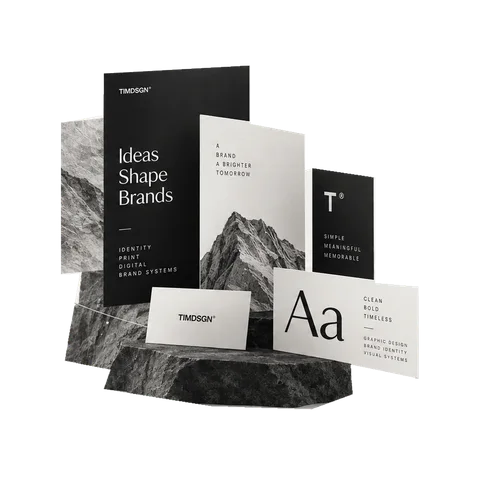
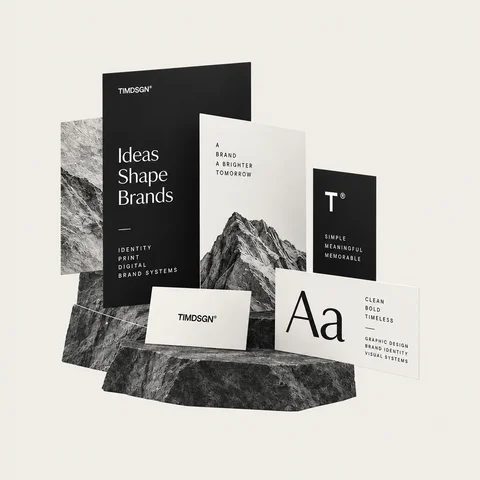
Replace editorial hero artwork with clean regenerated images

diff --git a/en/graphic-design.html b/en/graphic-design.html
@@ -28,7 +28,7 @@
 <link href="https://fonts.googleapis.com/css2?family=Inter+Tight:wght@300;400;500;600;700;800;900&amp;display=swap" rel="stylesheet"/>
 <link href="../style.css?v=20260910-iris" rel="stylesheet"/>
 <link href="../resources/Logo/LOGOwhite.png" rel="icon" type="image/png"/>
-<link href="../editorial.css?v=20260910-fit" rel="stylesheet"/></head>
+<link href="../editorial.css?v=20260910-clean" rel="stylesheet"/></head>
 <body class="editorial-site">
 <a class="skip-link" href="#sadrzaj">Skip to content</a>
 <nav aria-label="Main navigation" class="navbar editorial-nav"><div class="nav-container"><a aria-label="TIMDSGN — Home" class="nav-logo" href="../en/index.html">TIMDSGN</a><ul class="nav-links" id="navigation"><li><a class="nav-link" href="../en/web-design.html">Web Design</a></li><li><a aria-current="page" class="nav-link" href="../en/graphic-design.html">Graphic Design</a></li><li><a class="nav-link" href="../en/digital-products.html">Digital Products</a></li><li><a class="nav-link" href="../en/portfolio.html">Portfolio</a></li><li><a class="nav-link" href="../en/contact.html">Contact</a></li></ul><div class="nav-right"><div aria-label="Select language" class="language-selector"><a class="language-link" data-language="hr" href="../usluga-graficki-dizajn.html" lang="hr">HR</a><span aria-hidden="true">/</span><a aria-current="true" class="language-link" data-language="en" href="../en/graphic-design.html" lang="en">EN</a></div><button aria-controls="navigation" aria-expanded="false" aria-label="Open menu" class="mobile-menu-btn" type="button"><span class="line line1"></span><span class="line line2"></span><span class="line line3"></span></button></div></div></nav>
@@ -36,7 +36,7 @@
 <header class="editorial-hero hero-graphic">
 <div class="hero-copy"><p class="eyebrow">Graphic Design</p><h1><span>Graphic</span><br/><span>Design</span></h1><p class="hero-description">A distinctive visual identity that makes a lasting impression and expresses what your brand stands for.</p>
 <div class="hero-actions"><a class="editorial-button" href="../en/contact.html">Let’s Begin<span aria-hidden="true">⟶</span></a><a class="text-link" href="#process">See Our Process</a></div><div class="hero-stages"><div class="hero-stage"><span class="stage-number">01</span><span class="stage-title">Discovery</span><span class="micro">Understand<br/>your brand</span></div><div class="hero-stage"><span class="stage-number">02</span><span class="stage-title">Concept</span><span class="micro">Turn ideas<br/>into direction</span></div><div class="hero-stage"><span class="stage-number">03</span><span class="stage-title">Delivery</span><span class="micro">Refined design<br/>ready for the world</span></div></div></div>
-<div aria-hidden="true" class="hero-art"><div class="background-words"><span>GRAPHIC</span><span>DESIGN</span><span>IDENTITY</span><span>LOGO</span><span>SYSTEM</span></div><img alt="" class="hero-artwork" fetchpriority="high" height="920" sizes="(max-width: 900px) 94vw, 54vw" src="../resources/Editorial/graphic.webp" srcset="../resources/Editorial/graphic-small.webp 480w, ../resources/Editorial/graphic.webp 920w" width="920"/><span class="art-note micro">Ideas<br/>Brands<br/>Websites<br/>People</span><span class="art-signature micro">Creative<br/>Technology<br/>Human impact</span></div>
+<div aria-hidden="true" class="hero-art"><div class="background-words"><span>GRAPHIC</span><span>DESIGN</span><span>IDENTITY</span><span>LOGO</span><span>SYSTEM</span></div><img alt="" class="hero-artwork" fetchpriority="high" height="920" sizes="(max-width: 900px) 94vw, 54vw" src="../resources/Editorial/graphic.webp?v=20260910-clean" srcset="../resources/Editorial/graphic-small.webp?v=20260910-clean 480w, ../resources/Editorial/graphic.webp?v=20260910-clean 920w" width="920"/><span class="art-note micro">Ideas<br/>Brands<br/>Websites<br/>People</span><span class="art-signature micro">Creative<br/>Technology<br/>Human impact</span></div>
 </header>
 <div class="subpage-2col" id="process"><div class="process-heading"><p class="eyebrow">The process / 01—03</p><h2>Good ideas.<br/>Considered execution.</h2></div>
 <div class="process-steps">

diff --git a/en/digital-products.html b/en/digital-products.html
@@ -28,7 +28,7 @@
 <link href="https://fonts.googleapis.com/css2?family=Inter+Tight:wght@300;400;500;600;700;800;900&amp;display=swap" rel="stylesheet"/>
 <link href="../style.css?v=20260910-iris" rel="stylesheet"/>
 <link href="../resources/Logo/LOGOwhite.png" rel="icon" type="image/png"/>
-<link href="../editorial.css?v=20260910-fit" rel="stylesheet"/></head>
+<link href="../editorial.css?v=20260910-clean" rel="stylesheet"/></head>
 <body class="editorial-site">
 <a class="skip-link" href="#sadrzaj">Skip to content</a>
 <nav aria-label="Main navigation" class="navbar editorial-nav"><div class="nav-container"><a aria-label="TIMDSGN — Home" class="nav-logo" href="../en/index.html">TIMDSGN</a><ul class="nav-links" id="navigation"><li><a class="nav-link" href="../en/web-design.html">Web Design</a></li><li><a class="nav-link" href="../en/graphic-design.html">Graphic Design</a></li><li><a aria-current="page" class="nav-link" href="../en/digital-products.html">Digital Products</a></li><li><a class="nav-link" href="../en/portfolio.html">Portfolio</a></li><li><a class="nav-link" href="../en/contact.html">Contact</a></li></ul><div class="nav-right"><div aria-label="Select language" class="language-selector"><a class="language-link" data-language="hr" href="../usluga-digitalni-proizvodi.html" lang="hr">HR</a><span aria-hidden="true">/</span><a aria-current="true" class="language-link" data-language="en" href="../en/digital-products.html" lang="en">EN</a></div><button aria-controls="navigation" aria-expanded="false" aria-label="Open menu" class="mobile-menu-btn" type="button"><span class="line line1"></span><span class="line line2"></span><span class="line line3"></span></button></div></div></nav>
@@ -36,7 +36,7 @@
 <header class="editorial-hero hero-digital">
 <div class="hero-copy"><p class="eyebrow">Digital Products</p><h1><span>Digital</span><br/><span>Products</span></h1><p class="hero-description">Complex systems transformed into simple, intuitive experiences. We create digital tools with lasting value.</p>
 <div class="hero-actions"><a class="editorial-button" href="../en/contact.html">Let’s Talk<span aria-hidden="true">⟶</span></a><a class="text-link" href="#process">Explore Our Approach</a></div><div class="hero-stages"><div class="hero-stage"><span class="stage-number">01</span><span class="stage-title">Strategy</span><span class="micro">Discover<br/>opportunities</span></div><div class="hero-stage"><span class="stage-number">02</span><span class="stage-title">Prototype</span><span class="micro">Validate<br/>solutions</span></div><div class="hero-stage"><span class="stage-number">03</span><span class="stage-title">Launch</span><span class="micro">Build for<br/>real impact</span></div></div></div>
-<div aria-hidden="true" class="hero-art"><div class="background-words"><span>DIGITAL</span><span>PRODUCTS</span><span>STRATEGY</span><span>SYSTEMS</span></div><img alt="" class="hero-artwork" fetchpriority="high" height="920" sizes="(max-width: 900px) 94vw, 54vw" src="../resources/Editorial/digital.webp" srcset="../resources/Editorial/digital-small.webp 480w, ../resources/Editorial/digital.webp 920w" width="920"/><span class="art-note micro">Ideas<br/>Brands<br/>Websites<br/>People</span><span class="art-signature micro">Creative<br/>Technology<br/>Human impact</span></div>
+<div aria-hidden="true" class="hero-art"><div class="background-words"><span>DIGITAL</span><span>PRODUCTS</span><span>STRATEGY</span><span>SYSTEMS</span></div><img alt="" class="hero-artwork" fetchpriority="high" height="920" sizes="(max-width: 900px) 94vw, 54vw" src="../resources/Editorial/digital.webp?v=20260910-clean" srcset="../resources/Editorial/digital-small.webp?v=20260910-clean 480w, ../resources/Editorial/digital.webp?v=20260910-clean 920w" width="920"/><span class="art-note micro">Ideas<br/>Brands<br/>Websites<br/>People</span><span class="art-signature micro">Creative<br/>Technology<br/>Human impact</span></div>
 </header>
 <div class="subpage-2col" id="process"><div class="process-heading"><p class="eyebrow">The process / 01—03</p><h2>Good ideas.<br/>Considered execution.</h2></div>
 <div class="process-steps">

diff --git a/usluga-graficki-dizajn.html b/usluga-graficki-dizajn.html
@@ -24,7 +24,7 @@
 <link href="https://fonts.googleapis.com/css2?family=Inter+Tight:wght@300;400;500;600;700;800;900&amp;display=swap" rel="stylesheet"/>
 <link href="style.css?v=20260910-iris" rel="stylesheet"/>
 <link href="resources/Logo/LOGOwhite.png" rel="icon" type="image/png"/>
-<link href="editorial.css?v=20260910-fit" rel="stylesheet"/></head>
+<link href="editorial.css?v=20260910-clean" rel="stylesheet"/></head>
 <body class="editorial-site">
 <a class="skip-link" href="#sadrzaj">Preskoči na sadržaj</a>
 <nav aria-label="Glavna navigacija" class="navbar editorial-nav"><div class="nav-container"><a aria-label="TIMDSGN — Početna" class="nav-logo" href="index.html">TIMDSGN</a><ul class="nav-links" id="navigation"><li><a class="nav-link" href="usluga-web-dizajn.html">Web dizajn</a></li><li><a aria-current="page" class="nav-link" href="usluga-graficki-dizajn.html">Grafički dizajn</a></li><li><a class="nav-link" href="usluga-digitalni-proizvodi.html">Digitalni proizvodi</a></li><li><a class="nav-link" href="galerija.html">Portfolio</a></li><li><a class="nav-link" href="kontakt.html">Kontakt</a></li></ul><div class="nav-right"><div aria-label="Odabir jezika" class="language-selector"><a aria-current="true" class="language-link" data-language="hr" href="usluga-graficki-dizajn.html" lang="hr">HR</a><span aria-hidden="true">/</span><a class="language-link" data-language="en" href="en/graphic-design.html" lang="en">EN</a></div><button aria-controls="navigation" aria-expanded="false" aria-label="Otvori izbornik" class="mobile-menu-btn" type="button"><span class="line line1"></span><span class="line line2"></span><span class="line line3"></span></button></div></div></nav>
@@ -32,7 +32,7 @@
 <header class="editorial-hero hero-graphic">
 <div class="hero-copy"><p class="eyebrow">Grafički dizajn</p><h1><span>Grafički</span><br/><span>dizajn</span></h1><p class="hero-description">Prepoznatljiv vizualni identitet koji ostavlja trajan dojam i izražava ono iza čega vaš brend stoji.</p>
 <div class="hero-actions"><a class="editorial-button" href="kontakt.html">Započnimo<span aria-hidden="true">⟶</span></a><a class="text-link" href="#process">Pogledajte naš proces</a></div><div class="hero-stages"><div class="hero-stage"><span class="stage-number">01</span><span class="stage-title">Istraživanje</span><span class="micro">Upoznajemo<br/>vaš brend</span></div><div class="hero-stage"><span class="stage-number">02</span><span class="stage-title">Koncept</span><span class="micro">Od ideje<br/>do smjera</span></div><div class="hero-stage"><span class="stage-number">03</span><span class="stage-title">Isporuka</span><span class="micro">Dorađen dizajn<br/>spreman za svijet</span></div></div></div>
-<div aria-hidden="true" class="hero-art"><div class="background-words"><span>GRAFIČKI</span><span>DIZAJN</span><span>IDENTITET</span><span>LOGO</span><span>SUSTAV</span></div><img alt="" class="hero-artwork" fetchpriority="high" height="920" sizes="(max-width: 900px) 94vw, 54vw" src="resources/Editorial/graphic.webp" srcset="resources/Editorial/graphic-small.webp 480w, resources/Editorial/graphic.webp 920w" width="920"/><span class="art-note micro">Ideje<br/>Brendovi<br/>Web<br/>Ljudi</span><span class="art-signature micro">Kreativnost<br/>Tehnologija<br/>Za ljude</span></div>
+<div aria-hidden="true" class="hero-art"><div class="background-words"><span>GRAFIČKI</span><span>DIZAJN</span><span>IDENTITET</span><span>LOGO</span><span>SUSTAV</span></div><img alt="" class="hero-artwork" fetchpriority="high" height="920" sizes="(max-width: 900px) 94vw, 54vw" src="resources/Editorial/graphic.webp?v=20260910-clean" srcset="resources/Editorial/graphic-small.webp?v=20260910-clean 480w, resources/Editorial/graphic.webp?v=20260910-clean 920w" width="920"/><span class="art-note micro">Ideje<br/>Brendovi<br/>Web<br/>Ljudi</span><span class="art-signature micro">Kreativnost<br/>Tehnologija<br/>Za ljude</span></div>
 </header>
 <div class="subpage-2col" id="process"><div class="process-heading"><p class="eyebrow">Naš proces / 01—03</p><h2>Dobre ideje.<br/>Promišljena izvedba.</h2></div>
 <div class="process-steps">

diff --git a/usluga-digitalni-proizvodi.html b/usluga-digitalni-proizvodi.html
@@ -24,7 +24,7 @@
 <link href="https://fonts.googleapis.com/css2?family=Inter+Tight:wght@300;400;500;600;700;800;900&amp;display=swap" rel="stylesheet"/>
 <link href="style.css?v=20260910-iris" rel="stylesheet"/>
 <link href="resources/Logo/LOGOwhite.png" rel="icon" type="image/png"/>
-<link href="editorial.css?v=20260910-fit" rel="stylesheet"/></head>
+<link href="editorial.css?v=20260910-clean" rel="stylesheet"/></head>
 <body class="editorial-site">
 <a class="skip-link" href="#sadrzaj">Preskoči na sadržaj</a>
 <nav aria-label="Glavna navigacija" class="navbar editorial-nav"><div class="nav-container"><a aria-label="TIMDSGN — Početna" class="nav-logo" href="index.html">TIMDSGN</a><ul class="nav-links" id="navigation"><li><a class="nav-link" href="usluga-web-dizajn.html">Web dizajn</a></li><li><a class="nav-link" href="usluga-graficki-dizajn.html">Grafički dizajn</a></li><li><a aria-current="page" class="nav-link" href="usluga-digitalni-proizvodi.html">Digitalni proizvodi</a></li><li><a class="nav-link" href="galerija.html">Portfolio</a></li><li><a class="nav-link" href="kontakt.html">Kontakt</a></li></ul><div class="nav-right"><div aria-label="Odabir jezika" class="language-selector"><a aria-current="true" class="language-link" data-language="hr" href="usluga-digitalni-proizvodi.html" lang="hr">HR</a><span aria-hidden="true">/</span><a class="language-link" data-language="en" href="en/digital-products.html" lang="en">EN</a></div><button aria-controls="navigation" aria-expanded="false" aria-label="Otvori izbornik" class="mobile-menu-btn" type="button"><span class="line line1"></span><span class="line line2"></span><span class="line line3"></span></button></div></div></nav>
@@ -32,7 +32,7 @@
 <header class="editorial-hero hero-digital">
 <div class="hero-copy"><p class="eyebrow">Digitalni proizvodi</p><h1><span>Digitalni</span><br/><span>proizvodi</span></h1><p class="hero-description">Složene sustave pretvaramo u jednostavna, intuitivna iskustva. Stvaramo digitalne alate s trajnom vrijednošću.</p>
 <div class="hero-actions"><a class="editorial-button" href="kontakt.html">Razgovarajmo<span aria-hidden="true">⟶</span></a><a class="text-link" href="#process">Pogledajte naš pristup</a></div><div class="hero-stages"><div class="hero-stage"><span class="stage-number">01</span><span class="stage-title">Strategija</span><span class="micro">Otkrivamo<br/>prilike</span></div><div class="hero-stage"><span class="stage-number">02</span><span class="stage-title">Prototip</span><span class="micro">Provjeravamo<br/>rješenja</span></div><div class="hero-stage"><span class="stage-number">03</span><span class="stage-title">Lansiranje</span><span class="micro">Stvaramo<br/>stvarnu vrijednost</span></div></div></div>
-<div aria-hidden="true" class="hero-art"><div class="background-words"><span>DIGITALNI</span><span>PROIZVODI</span><span>STRATEGIJA</span><span>SUSTAVI</span></div><img alt="" class="hero-artwork" fetchpriority="high" height="920" sizes="(max-width: 900px) 94vw, 54vw" src="resources/Editorial/digital.webp" srcset="resources/Editorial/digital-small.webp 480w, resources/Editorial/digital.webp 920w" width="920"/><span class="art-note micro">Ideje<br/>Brendovi<br/>Web<br/>Ljudi</span><span class="art-signature micro">Kreativnost<br/>Tehnologija<br/>Za ljude</span></div>
+<div aria-hidden="true" class="hero-art"><div class="background-words"><span>DIGITALNI</span><span>PROIZVODI</span><span>STRATEGIJA</span><span>SUSTAVI</span></div><img alt="" class="hero-artwork" fetchpriority="high" height="920" sizes="(max-width: 900px) 94vw, 54vw" src="resources/Editorial/digital.webp?v=20260910-clean" srcset="resources/Editorial/digital-small.webp?v=20260910-clean 480w, resources/Editorial/digital.webp?v=20260910-clean 920w" width="920"/><span class="art-note micro">Ideje<br/>Brendovi<br/>Web<br/>Ljudi</span><span class="art-signature micro">Kreativnost<br/>Tehnologija<br/>Za ljude</span></div>
 </header>
 <div class="subpage-2col" id="process"><div class="process-heading"><p class="eyebrow">Naš proces / 01—03</p><h2>Dobre ideje.<br/>Promišljena izvedba.</h2></div>
 <div class="process-steps">

diff --git a/en/index.html b/en/index.html
@@ -52,7 +52,7 @@
 <link href="https://fonts.googleapis.com/css2?family=Inter+Tight:wght@300;400;500;600;700;800;900&amp;display=swap" rel="stylesheet"/>
 <link href="../style.css?v=20260910-iris" rel="stylesheet"/>
 <link href="../resources/Logo/LOGOwhite.png" rel="icon" type="image/png"/>
-<link href="../editorial.css?v=20260910-fit" rel="stylesheet"/></head>
+<link href="../editorial.css?v=20260910-clean" rel="stylesheet"/></head>
 <body class="editorial-site">
 <a class="skip-link" href="#sadrzaj">Skip to content</a>
 <!-- NAVBAR -->
@@ -62,7 +62,7 @@
 <header class="editorial-hero hero-home">
 <div class="hero-copy"><p class="eyebrow">Zagreb, Croatia</p><h1><span>Creativity &amp; Code</span><br/><span>for a Brighter</span><br/><span>Digital Tomorrow.</span></h1><p class="hero-description">We build thoughtful digital experiences through strategy, design and technology. From identity to web, we help ambitious brands make a meaningful impact.</p>
 <div class="hero-actions"><a class="editorial-button" href="../en/contact.html">Start a Project<span aria-hidden="true">⟶</span></a><a class="text-link" href="../en/portfolio.html">Explore Our Work</a></div><div class="hero-stages"><a class="hero-stage" href="../en/web-design.html"><span class="stage-number">01</span><span class="stage-title">Web Design</span><span class="micro">High-performance<br/>websites</span></a><a class="hero-stage" href="../en/graphic-design.html"><span class="stage-number">02</span><span class="stage-title">Graphic Design</span><span class="micro">Bold visual<br/>identities</span></a><a class="hero-stage" href="../en/digital-products.html"><span class="stage-number">03</span><span class="stage-title">Digital Products</span><span class="micro">Ideas, designed<br/>for real life</span></a></div></div>
-<div aria-hidden="true" class="hero-art"><div class="background-words"><span>IDENTITY</span><span>PLAN</span><span>STRATEGY</span><span>DESIGN</span><span>BRAND</span><span>WEB</span></div><img alt="" class="hero-artwork" fetchpriority="high" height="920" sizes="(max-width: 900px) 94vw, 54vw" src="../resources/Editorial/home.webp" srcset="../resources/Editorial/home-small.webp 480w, ../resources/Editorial/home.webp 920w" width="920"/><span class="art-note micro">Ideas<br/>Brands<br/>Websites<br/>People</span><span class="art-signature micro">Creative<br/>Technology<br/>Human impact</span></div>
+<div aria-hidden="true" class="hero-art"><div class="background-words"><span>IDENTITY</span><span>PLAN</span><span>STRATEGY</span><span>DESIGN</span><span>BRAND</span><span>WEB</span></div><img alt="" class="hero-artwork" fetchpriority="high" height="920" sizes="(max-width: 900px) 94vw, 54vw" src="../resources/Editorial/home.webp?v=20260910-clean" srcset="../resources/Editorial/home-small.webp?v=20260910-clean 480w, ../resources/Editorial/home.webp?v=20260910-clean 920w" width="920"/><span class="art-note micro">Ideas<br/>Brands<br/>Websites<br/>People</span><span class="art-signature micro">Creative<br/>Technology<br/>Human impact</span></div>
 </header>
 <!-- SERVICES — ACCORDION STRIPS -->
 <section class="section-full">

diff --git a/index.html b/index.html
@@ -52,7 +52,7 @@
 <link href="https://fonts.googleapis.com/css2?family=Inter+Tight:wght@300;400;500;600;700;800;900&amp;display=swap" rel="stylesheet"/>
 <link href="style.css?v=20260910-iris" rel="stylesheet"/>
 <link href="resources/Logo/LOGOwhite.png" rel="icon" type="image/png"/>
-<link href="editorial.css?v=20260910-fit" rel="stylesheet"/></head>
+<link href="editorial.css?v=20260910-clean" rel="stylesheet"/></head>
 <body class="editorial-site">
 <a class="skip-link" href="#sadrzaj">Preskoči na sadržaj</a>
 <!-- NAVBAR -->
@@ -62,7 +62,7 @@
 <header class="editorial-hero hero-home">
 <div class="hero-copy"><p class="eyebrow">Zagreb, Hrvatska</p><h1><span>Kreativnost i kod</span><br/><span>za svjetliju</span><br/><span>digitalnu budućnost.</span></h1><p class="hero-description">Strategijom, dizajnom i tehnologijom stvaramo promišljena digitalna iskustva. Od identiteta do weba, pomažemo ambicioznim brendovima ostaviti trag.</p>
 <div class="hero-actions"><a class="editorial-button" href="kontakt.html">Pokrenimo projekt<span aria-hidden="true">⟶</span></a><a class="text-link" href="galerija.html">Pogledajte naše radove</a></div><div class="hero-stages"><a class="hero-stage" href="usluga-web-dizajn.html"><span class="stage-number">01</span><span class="stage-title">Web dizajn</span><span class="micro">Web stranice<br/>visokih performansi</span></a><a class="hero-stage" href="usluga-graficki-dizajn.html"><span class="stage-number">02</span><span class="stage-title">Grafički dizajn</span><span class="micro">Upečatljivi<br/>vizualni identiteti</span></a><a class="hero-stage" href="usluga-digitalni-proizvodi.html"><span class="stage-number">03</span><span class="stage-title">Digitalni proizvodi</span><span class="micro">Ideje za<br/>stvarni život</span></a></div></div>
-<div aria-hidden="true" class="hero-art"><div class="background-words"><span>IDENTITET</span><span>PLAN</span><span>STRATEGIJA</span><span>DIZAJN</span><span>BREND</span><span>WEB</span></div><img alt="" class="hero-artwork" fetchpriority="high" height="920" sizes="(max-width: 900px) 94vw, 54vw" src="resources/Editorial/home.webp" srcset="resources/Editorial/home-small.webp 480w, resources/Editorial/home.webp 920w" width="920"/><span class="art-note micro">Ideje<br/>Brendovi<br/>Web<br/>Ljudi</span><span class="art-signature micro">Kreativnost<br/>Tehnologija<br/>Za ljude</span></div>
+<div aria-hidden="true" class="hero-art"><div class="background-words"><span>IDENTITET</span><span>PLAN</span><span>STRATEGIJA</span><span>DIZAJN</span><span>BREND</span><span>WEB</span></div><img alt="" class="hero-artwork" fetchpriority="high" height="920" sizes="(max-width: 900px) 94vw, 54vw" src="resources/Editorial/home.webp?v=20260910-clean" srcset="resources/Editorial/home-small.webp?v=20260910-clean 480w, resources/Editorial/home.webp?v=20260910-clean 920w" width="920"/><span class="art-note micro">Ideje<br/>Brendovi<br/>Web<br/>Ljudi</span><span class="art-signature micro">Kreativnost<br/>Tehnologija<br/>Za ljude</span></div>
 </header>
 <!-- SERVICES — ACCORDION STRIPS -->
 <section class="section-full">

diff --git a/en/web-design.html b/en/web-design.html
@@ -28,7 +28,7 @@
 <link href="https://fonts.googleapis.com/css2?family=Inter+Tight:wght@300;400;500;600;700;800;900&amp;display=swap" rel="stylesheet"/>
 <link href="../style.css?v=20260910-iris" rel="stylesheet"/>
 <link href="../resources/Logo/LOGOwhite.png" rel="icon" type="image/png"/>
-<link href="../editorial.css?v=20260910-fit" rel="stylesheet"/></head>
+<link href="../editorial.css?v=20260910-clean" rel="stylesheet"/></head>
 <body class="editorial-site">
 <a class="skip-link" href="#sadrzaj">Skip to content</a>
 <!-- NAVBAR -->
@@ -37,7 +37,7 @@
 <header class="editorial-hero hero-web">
 <div class="hero-copy"><p class="eyebrow">Web Design</p><h1><span>Web Design</span></h1><p class="hero-description">A premium digital presence where forward-looking aesthetics meet effortless functionality.</p>
 <div class="hero-actions"><a class="editorial-button" href="../en/contact.html">Let’s Begin<span aria-hidden="true">⟶</span></a><a class="text-link" href="#process">See Our Process</a></div><div class="hero-stages"><div class="hero-stage"><span class="stage-number">01</span><span class="stage-title">UX Analysis</span><span class="micro">Insights for<br/>real users</span></div><div class="hero-stage"><span class="stage-number">02</span><span class="stage-title">UI Design</span><span class="micro">Bold visual<br/>experiences</span></div><div class="hero-stage"><span class="stage-number">03</span><span class="stage-title">Development</span><span class="micro">Clean code<br/>lasting impact</span></div></div></div>
-<div aria-hidden="true" class="hero-art"><div class="background-words"><span>WEB</span><span>DESIGN</span><span>PERFORMANCE</span><span>UX</span><span>UI</span></div><img alt="" class="hero-artwork" fetchpriority="high" height="920" sizes="(max-width: 900px) 94vw, 54vw" src="../resources/Editorial/web.webp" srcset="../resources/Editorial/web-small.webp 480w, ../resources/Editorial/web.webp 920w" width="920"/><span class="art-note micro">Ideas<br/>Brands<br/>Websites<br/>People</span><span class="art-signature micro">Creative<br/>Technology<br/>Human impact</span></div>
+<div aria-hidden="true" class="hero-art"><div class="background-words"><span>WEB</span><span>DESIGN</span><span>PERFORMANCE</span><span>UX</span><span>UI</span></div><img alt="" class="hero-artwork" fetchpriority="high" height="920" sizes="(max-width: 900px) 94vw, 54vw" src="../resources/Editorial/web.webp?v=20260910-clean" srcset="../resources/Editorial/web-small.webp?v=20260910-clean 480w, ../resources/Editorial/web.webp?v=20260910-clean 920w" width="920"/><span class="art-note micro">Ideas<br/>Brands<br/>Websites<br/>People</span><span class="art-signature micro">Creative<br/>Technology<br/>Human impact</span></div>
 </header>
 <div class="subpage-2col" id="process"><div class="process-heading"><p class="eyebrow">The process / 01—03</p><h2>Good ideas.<br/>Considered execution.</h2></div>
 <div class="process-steps">

diff --git a/usluga-web-dizajn.html b/usluga-web-dizajn.html
@@ -24,7 +24,7 @@
 <link href="https://fonts.googleapis.com/css2?family=Inter+Tight:wght@300;400;500;600;700;800;900&amp;display=swap" rel="stylesheet"/>
 <link href="style.css?v=20260910-iris" rel="stylesheet"/>
 <link href="resources/Logo/LOGOwhite.png" rel="icon" type="image/png"/>
-<link href="editorial.css?v=20260910-fit" rel="stylesheet"/></head>
+<link href="editorial.css?v=20260910-clean" rel="stylesheet"/></head>
 <body class="editorial-site">
 <a class="skip-link" href="#sadrzaj">Preskoči na sadržaj</a>
 <!-- NAVBAR -->
@@ -33,7 +33,7 @@
 <header class="editorial-hero hero-web">
 <div class="hero-copy"><p class="eyebrow">Web dizajn</p><h1><span>Web dizajn</span></h1><p class="hero-description">Vrhunska digitalna prisutnost koja spaja suvremenu estetiku i besprijekornu funkcionalnost.</p>
 <div class="hero-actions"><a class="editorial-button" href="kontakt.html">Započnimo<span aria-hidden="true">⟶</span></a><a class="text-link" href="#process">Pogledajte naš proces</a></div><div class="hero-stages"><div class="hero-stage"><span class="stage-number">01</span><span class="stage-title">UX analiza</span><span class="micro">Razumijevanje<br/>stvarnih korisnika</span></div><div class="hero-stage"><span class="stage-number">02</span><span class="stage-title">UI dizajn</span><span class="micro">Upečatljiva<br/>vizualna iskustva</span></div><div class="hero-stage"><span class="stage-number">03</span><span class="stage-title">Razvoj</span><span class="micro">Čist kod<br/>trajna vrijednost</span></div></div></div>
-<div aria-hidden="true" class="hero-art"><div class="background-words"><span>WEB</span><span>DIZAJN</span><span>PERFORMANSE</span><span>UX</span><span>UI</span></div><img alt="" class="hero-artwork" fetchpriority="high" height="920" sizes="(max-width: 900px) 94vw, 54vw" src="resources/Editorial/web.webp" srcset="resources/Editorial/web-small.webp 480w, resources/Editorial/web.webp 920w" width="920"/><span class="art-note micro">Ideje<br/>Brendovi<br/>Web<br/>Ljudi</span><span class="art-signature micro">Kreativnost<br/>Tehnologija<br/>Za ljude</span></div>
+<div aria-hidden="true" class="hero-art"><div class="background-words"><span>WEB</span><span>DIZAJN</span><span>PERFORMANSE</span><span>UX</span><span>UI</span></div><img alt="" class="hero-artwork" fetchpriority="high" height="920" sizes="(max-width: 900px) 94vw, 54vw" src="resources/Editorial/web.webp?v=20260910-clean" srcset="resources/Editorial/web-small.webp?v=20260910-clean 480w, resources/Editorial/web.webp?v=20260910-clean 920w" width="920"/><span class="art-note micro">Ideje<br/>Brendovi<br/>Web<br/>Ljudi</span><span class="art-signature micro">Kreativnost<br/>Tehnologija<br/>Za ljude</span></div>
 </header>
 <div class="subpage-2col" id="process"><div class="process-heading"><p class="eyebrow">Naš proces / 01—03</p><h2>Dobre ideje.<br/>Promišljena izvedba.</h2></div>
 <div class="process-steps">

diff --git a/en/portfolio.html b/en/portfolio.html
@@ -28,7 +28,7 @@
 <link href="https://fonts.googleapis.com/css2?family=Inter+Tight:wght@300;400;500;600;700;800;900&amp;display=swap" rel="stylesheet"/>
 <link href="../style.css?v=20260910-iris" rel="stylesheet"/>
 <link href="../resources/Logo/LOGOwhite.png" rel="icon" type="image/png"/>
-<link href="../editorial.css?v=20260910-fit" rel="stylesheet"/></head>
+<link href="../editorial.css?v=20260910-clean" rel="stylesheet"/></head>
 <body class="portfolio-page editorial-site">
 <a class="skip-link" href="#sadrzaj">Skip to content</a>
 <nav aria-label="Main navigation" class="navbar editorial-nav"><div class="nav-container"><a aria-label="TIMDSGN — Home" class="nav-logo" href="../en/index.html">TIMDSGN</a><ul class="nav-links" id="navigation"><li><a class="nav-link" href="../en/web-design.html">Web Design</a></li><li><a class="nav-link" href="../en/graphic-design.html">Graphic Design</a></li><li><a class="nav-link" href="../en/digital-products.html">Digital Products</a></li><li><a aria-current="page" class="nav-link" href="../en/portfolio.html">Portfolio</a></li><li><a class="nav-link" href="../en/contact.html">Contact</a></li></ul><div class="nav-right"><div aria-label="Select language" class="language-selector"><a class="language-link" data-language="hr" href="../galerija.html" lang="hr">HR</a><span aria-hidden="true">/</span><a aria-current="true" class="language-link" data-language="en" href="../en/portfolio.html" lang="en">EN</a></div><button aria-controls="navigation" aria-expanded="false" aria-label="Open menu" class="mobile-menu-btn" type="button"><span class="line line1"></span><span class="line line2"></span><span class="line line3"></span></button></div></div></nav>

diff --git a/galerija.html b/galerija.html
@@ -24,7 +24,7 @@
 <link href="https://fonts.googleapis.com/css2?family=Inter+Tight:wght@300;400;500;600;700;800;900&amp;display=swap" rel="stylesheet"/>
 <link href="style.css?v=20260910-iris" rel="stylesheet"/>
 <link href="resources/Logo/LOGOwhite.png" rel="icon" type="image/png"/>
-<link href="editorial.css?v=20260910-fit" rel="stylesheet"/></head>
+<link href="editorial.css?v=20260910-clean" rel="stylesheet"/></head>
 <body class="portfolio-page editorial-site">
 <a class="skip-link" href="#sadrzaj">Preskoči na sadržaj</a>
 <nav aria-label="Glavna navigacija" class="navbar editorial-nav"><div class="nav-container"><a aria-label="TIMDSGN — Početna" class="nav-logo" href="index.html">TIMDSGN</a><ul class="nav-links" id="navigation"><li><a class="nav-link" href="usluga-web-dizajn.html">Web dizajn</a></li><li><a class="nav-link" href="usluga-graficki-dizajn.html">Grafički dizajn</a></li><li><a class="nav-link" href="usluga-digitalni-proizvodi.html">Digitalni proizvodi</a></li><li><a aria-current="page" class="nav-link" href="galerija.html">Portfolio</a></li><li><a class="nav-link" href="kontakt.html">Kontakt</a></li></ul><div class="nav-right"><div aria-label="Odabir jezika" class="language-selector"><a aria-current="true" class="language-link" data-language="hr" href="galerija.html" lang="hr">HR</a><span aria-hidden="true">/</span><a class="language-link" data-language="en" href="en/portfolio.html" lang="en">EN</a></div><button aria-controls="navigation" aria-expanded="false" aria-label="Otvori izbornik" class="mobile-menu-btn" type="button"><span class="line line1"></span><span class="line line2"></span><span class="line line3"></span></button></div></div></nav>

diff --git a/en/contact.html b/en/contact.html
@@ -28,7 +28,7 @@
 <link href="https://fonts.googleapis.com/css2?family=Inter+Tight:wght@300;400;500;600;700;800;900&amp;display=swap" rel="stylesheet"/>
 <link href="../style.css?v=20260910-iris" rel="stylesheet"/>
 <link href="../resources/Logo/LOGOwhite.png" rel="icon" type="image/png"/>
-<link href="../editorial.css?v=20260910-fit" rel="stylesheet"/></head>
+<link href="../editorial.css?v=20260910-clean" rel="stylesheet"/></head>
 <body class="editorial-site">
 <a class="skip-link" href="#sadrzaj">Skip to content</a>
 <nav aria-label="Main navigation" class="navbar editorial-nav"><div class="nav-container"><a aria-label="TIMDSGN — Home" class="nav-logo" href="../en/index.html">TIMDSGN</a><ul class="nav-links" id="navigation"><li><a class="nav-link" href="../en/web-design.html">Web Design</a></li><li><a class="nav-link" href="../en/graphic-design.html">Graphic Design</a></li><li><a class="nav-link" href="../en/digital-products.html">Digital Products</a></li><li><a class="nav-link" href="../en/portfolio.html">Portfolio</a></li><li><a aria-current="page" class="nav-link" href="../en/contact.html">Contact</a></li></ul><div class="nav-right"><div aria-label="Select language" class="language-selector"><a class="language-link" data-language="hr" href="../kontakt.html" lang="hr">HR</a><span aria-hidden="true">/</span><a aria-current="true" class="language-link" data-language="en" href="../en/contact.html" lang="en">EN</a></div><button aria-controls="navigation" aria-expanded="false" aria-label="Open menu" class="mobile-menu-btn" type="button"><span class="line line1"></span><span class="line line2"></span><span class="line line3"></span></button></div></div></nav>

diff --git a/kontakt.html b/kontakt.html
@@ -24,7 +24,7 @@
 <link href="https://fonts.googleapis.com/css2?family=Inter+Tight:wght@300;400;500;600;700;800;900&amp;display=swap" rel="stylesheet"/>
 <link href="style.css?v=20260910-iris" rel="stylesheet"/>
 <link href="resources/Logo/LOGOwhite.png" rel="icon" type="image/png"/>
-<link href="editorial.css?v=20260910-fit" rel="stylesheet"/></head>
+<link href="editorial.css?v=20260910-clean" rel="stylesheet"/></head>
 <body class="editorial-site">
 <a class="skip-link" href="#sadrzaj">Preskoči na sadržaj</a>
 <nav aria-label="Glavna navigacija" class="navbar editorial-nav"><div class="nav-container"><a aria-label="TIMDSGN — Početna" class="nav-logo" href="index.html">TIMDSGN</a><ul class="nav-links" id="navigation"><li><a class="nav-link" href="usluga-web-dizajn.html">Web dizajn</a></li><li><a class="nav-link" href="usluga-graficki-dizajn.html">Grafički dizajn</a></li><li><a class="nav-link" href="usluga-digitalni-proizvodi.html">Digitalni proizvodi</a></li><li><a class="nav-link" href="galerija.html">Portfolio</a></li><li><a aria-current="page" class="nav-link" href="kontakt.html">Kontakt</a></li></ul><div class="nav-right"><div aria-label="Odabir jezika" class="language-selector"><a aria-current="true" class="language-link" data-language="hr" href="kontakt.html" lang="hr">HR</a><span aria-hidden="true">/</span><a class="language-link" data-language="en" href="en/contact.html" lang="en">EN</a></div><button aria-controls="navigation" aria-expanded="false" aria-label="Otvori izbornik" class="mobile-menu-btn" type="button"><span class="line line1"></span><span class="line line2"></span><span class="line line3"></span></button></div></div></nav>
